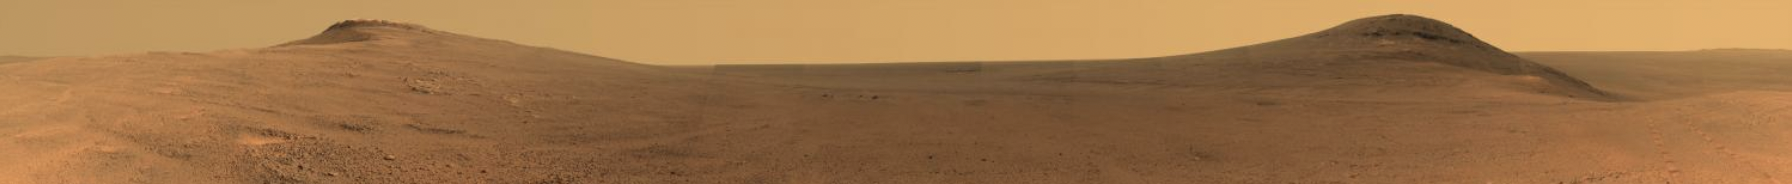
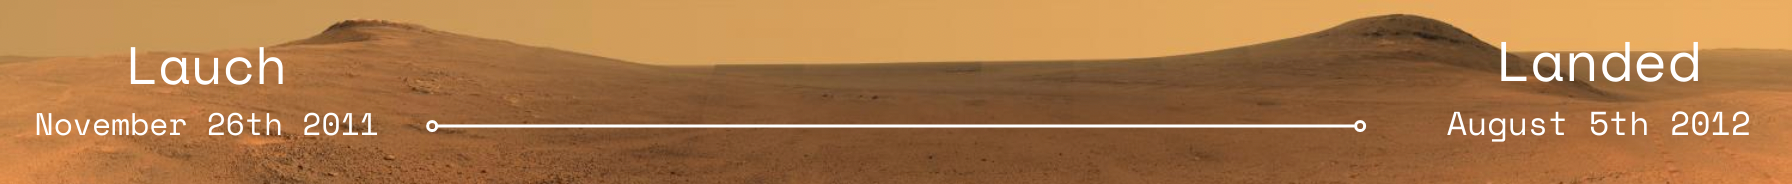
update timeline

Changed region(s): [[0.0, 0.5978, 1.0, 0.7609], [0.8125, 0.2717, 0.9688, 0.462], [0.0625, 0.2989, 0.1562, 0.462]]

diff --git a/frontend/src/pages/Curiosity.jsx b/frontend/src/pages/Curiosity.jsx
@@ -9,13 +9,14 @@ export default function Home() {
   return (
     <>
       <Titre titre="Rover : CURIOSITY" />
+      <Timeline />
       <p className="intro-site">
         Curiosity is a rover created by JPL, one of NASAs research centers. Its
         purpose is to explore Mars, as part of the Mars Science Laboratory
         mission. This rover landed on Mars on August 6, 2012 and is still on the
         red planet.
       </p>
-      <Timeline />
+
       <CountCuriosity />
       <CuriosityPics />
     </>

diff --git a/frontend/src/components/Curiosity/Timeline.jsx b/frontend/src/components/Curiosity/Timeline.jsx
@@ -1,9 +1,14 @@
 import React from "react";
+import "../../styles/Timeline.scss";
 
 export default function Timeline() {
   return (
-    <div>
-      <img src="../src/assets/Timeline.png" alt="planet mars" />
+    <div className="timelineCuriosity">
+      <img
+        className="timelineImg"
+        src="../src/assets/Timeline.png"
+        alt="planet mars"
+      />
     </div>
   );
 }

diff --git a/frontend/src/styles/Timeline.scss b/frontend/src/styles/Timeline.scss
@@ -1,0 +1,11 @@
+.timelineCuriosity {
+  width: calc(100vw - 4rem);
+  display: flex;
+  flex-direction: column;
+  align-items: center;
+}
+
+.timelineImg{
+    width: 100%;
+    padding: 0;
+}
